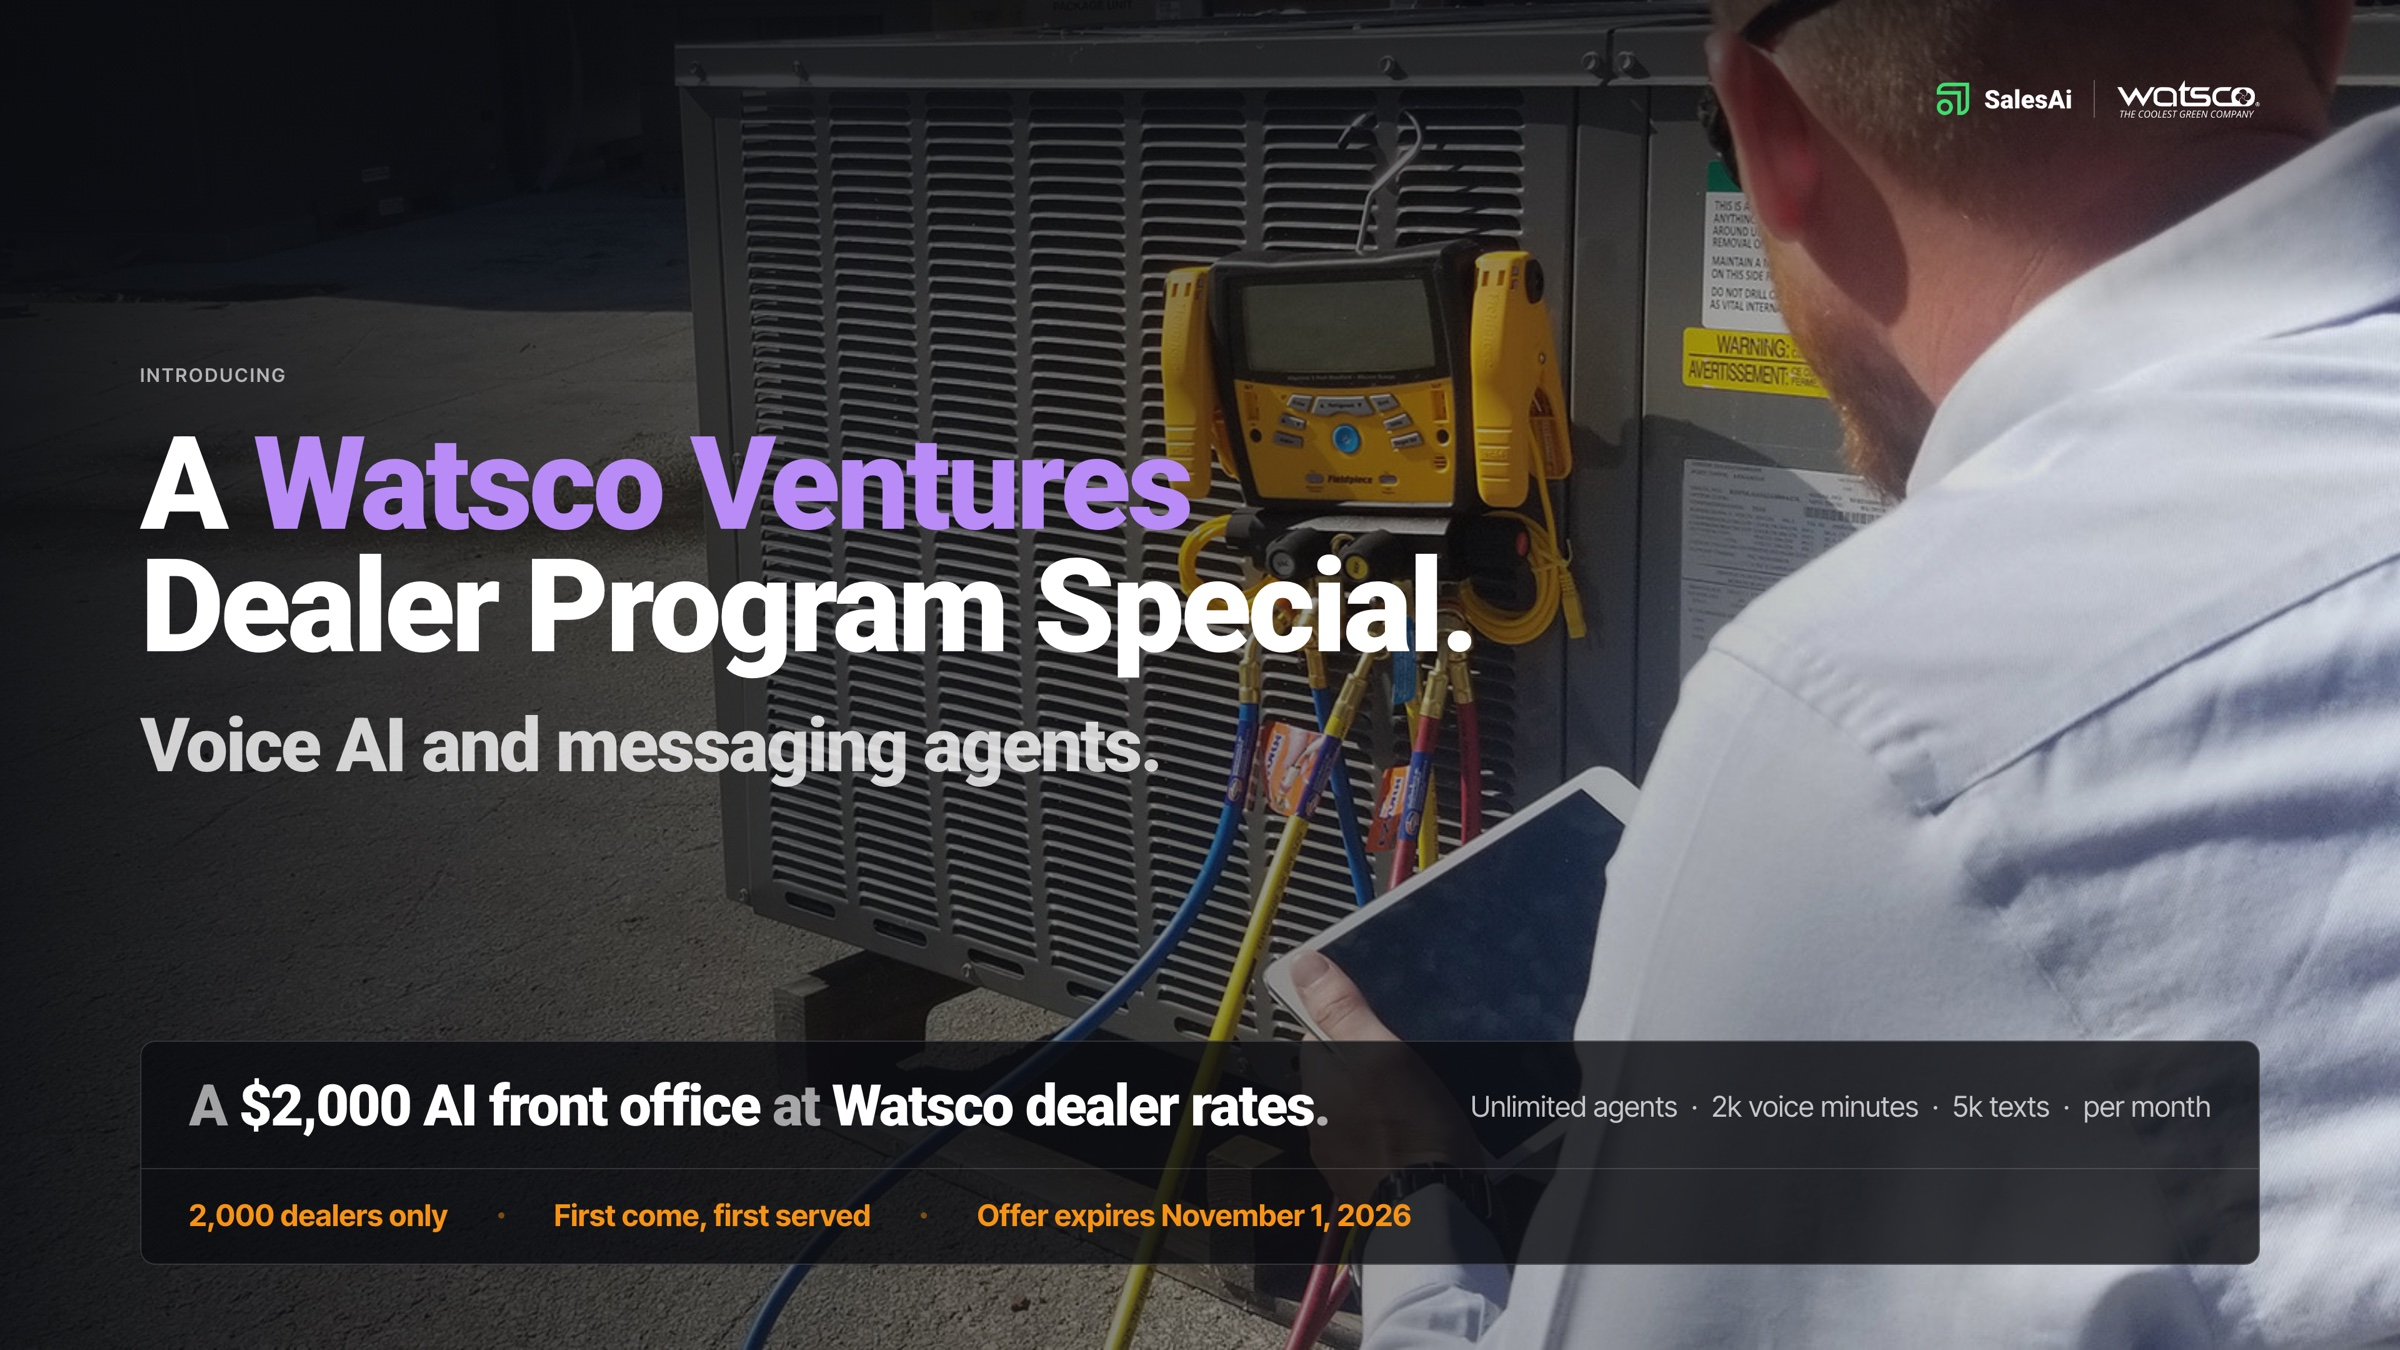
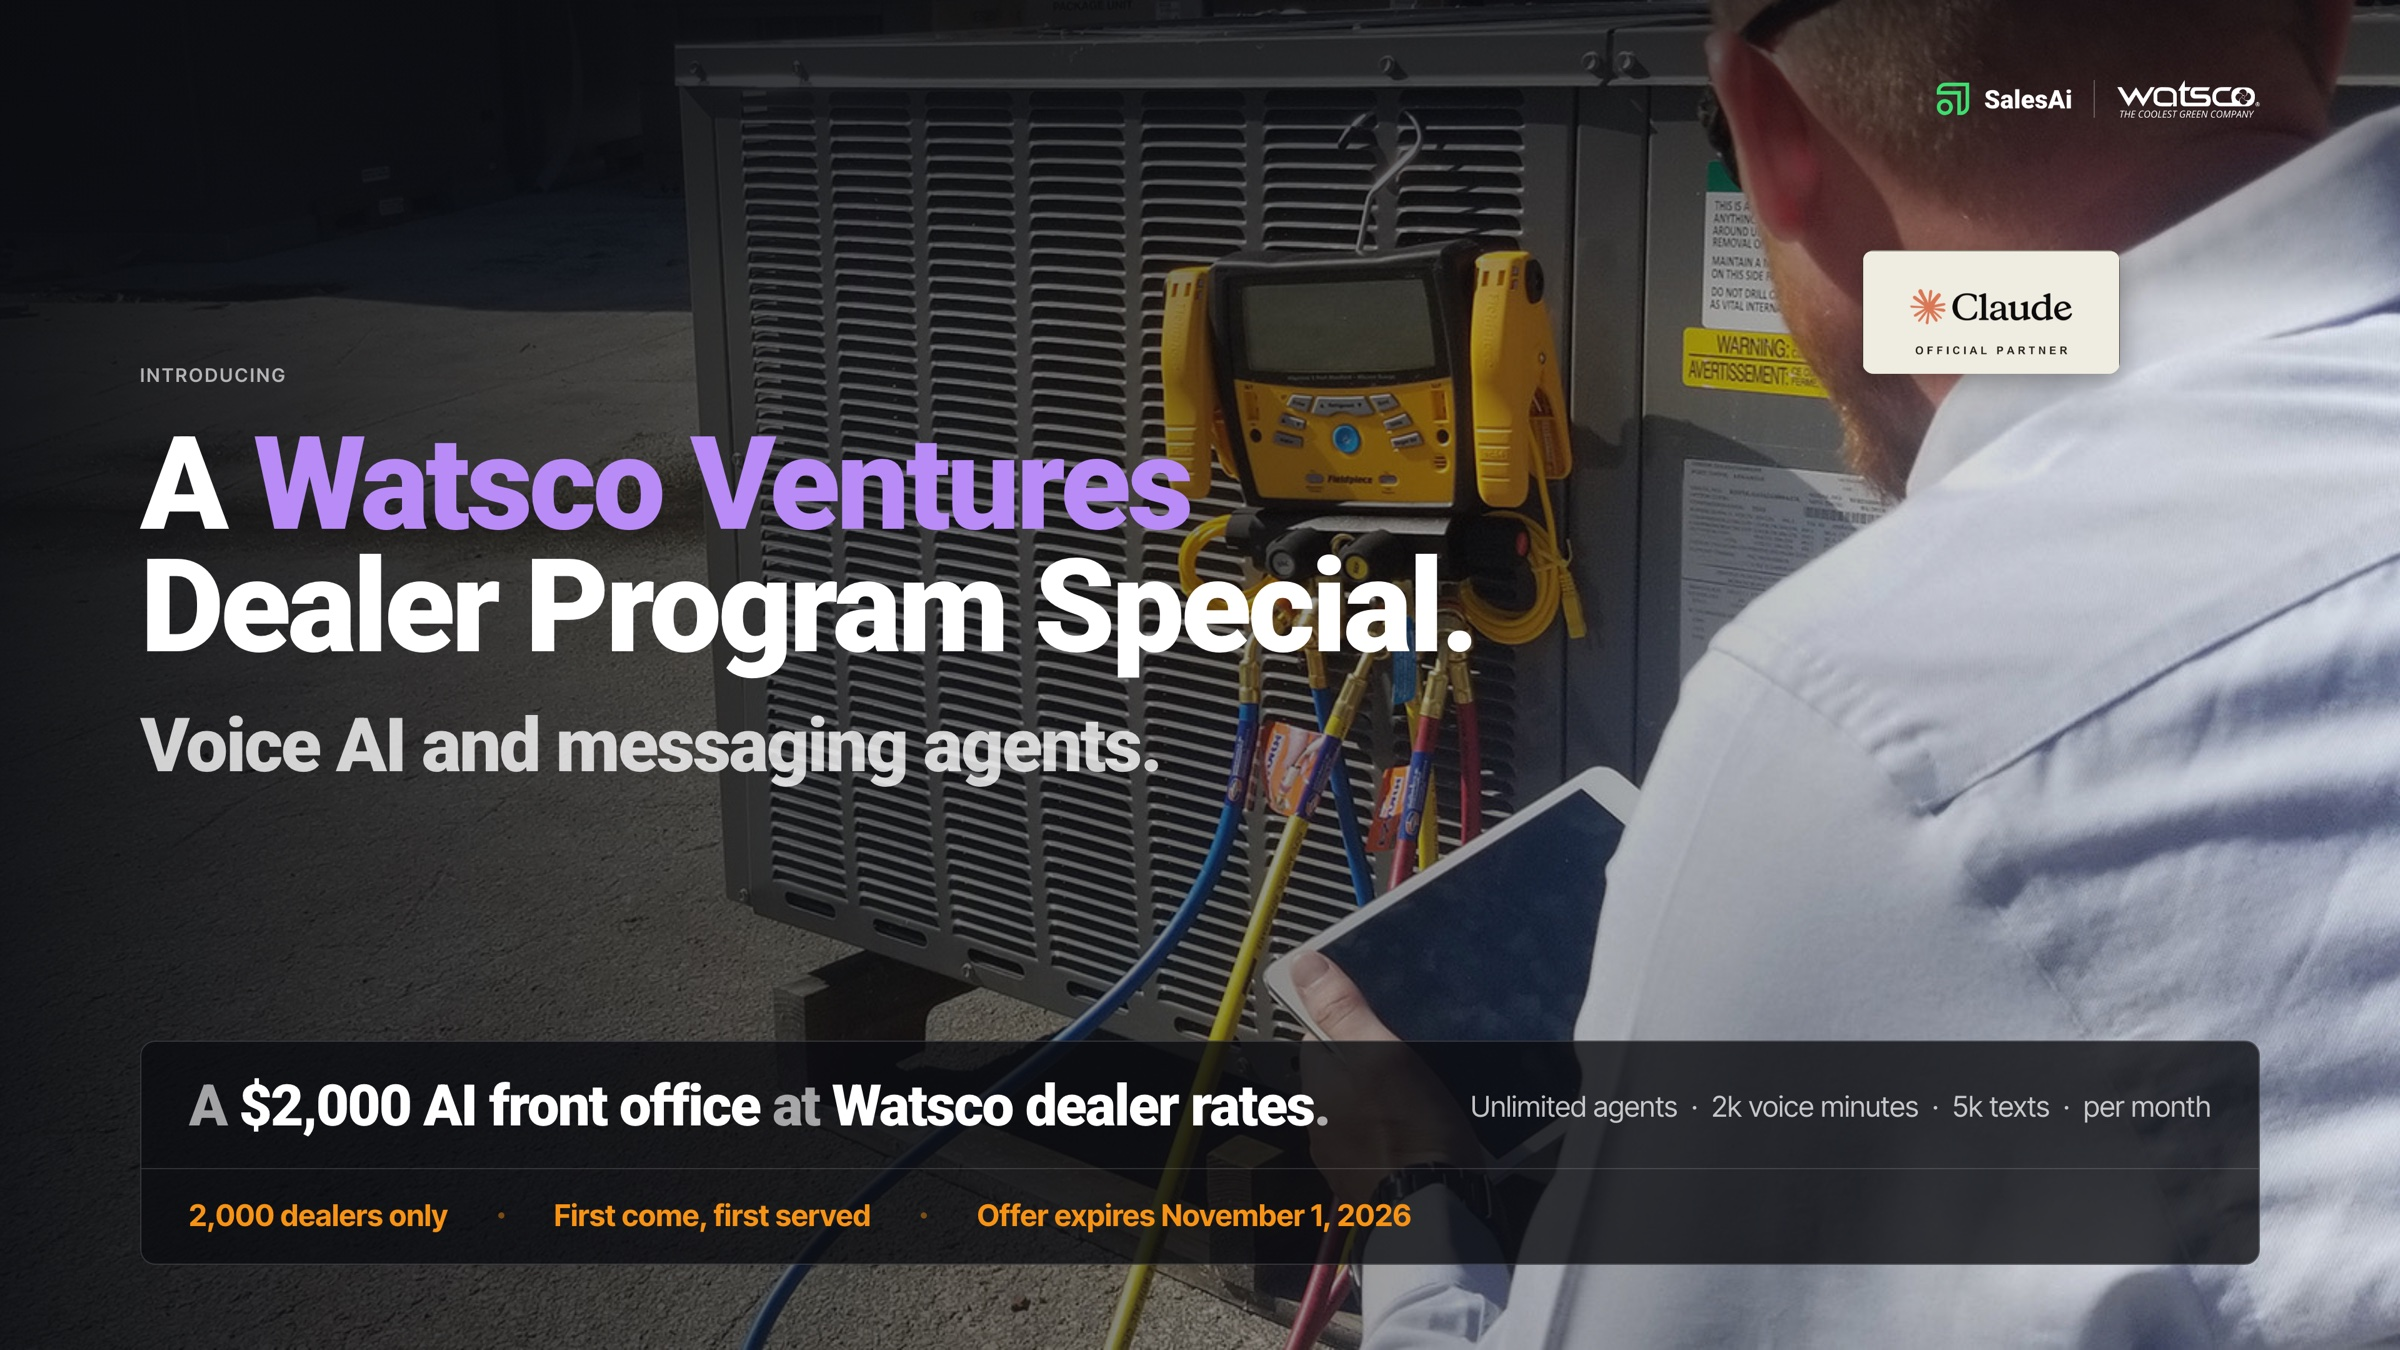
Intro slide: Claude Official Partner badge under the lockup
Claude-Session: https://claude.ai/code/session_01541ZQJSzd5g49QbE64sNeN

Changed region(s): [[0.75, 0.1867, 0.9062, 0.3111]]

diff --git a/watsco-dealer-deck.html b/watsco-dealer-deck.html
@@ -88,7 +88,7 @@ nav{position:fixed;inset:0 0 auto 0;height:var(--nav);z-index:100;background:#00
   </div>
 </nav>
 
-<section class="s" data-n="01"><img src="watsco-deck/01.jpg?v=8dd564cd36" width="2400" height="1350" alt="Slide 01 — Introducing"></section>
+<section class="s" data-n="01"><img src="watsco-deck/01.jpg?v=5ec6537198" width="2400" height="1350" alt="Slide 01 — Introducing"></section>
 <section class="s" data-n="02"><img src="watsco-deck/02.jpg?v=80ea798664" width="2400" height="1350" alt="Slide 02 — Cover"></section>
 <section class="s" data-n="03"><img src="watsco-deck/03.jpg?v=b29d1d38a8" width="2400" height="1350" alt="Slide 03 — Sound familiar?" loading="lazy" decoding="async"></section>
 <section class="s" data-n="04"><img src="watsco-deck/04.jpg?v=5ed5ec9afa" width="2400" height="1350" alt="Slide 04 — The question" loading="lazy" decoding="async"></section>
